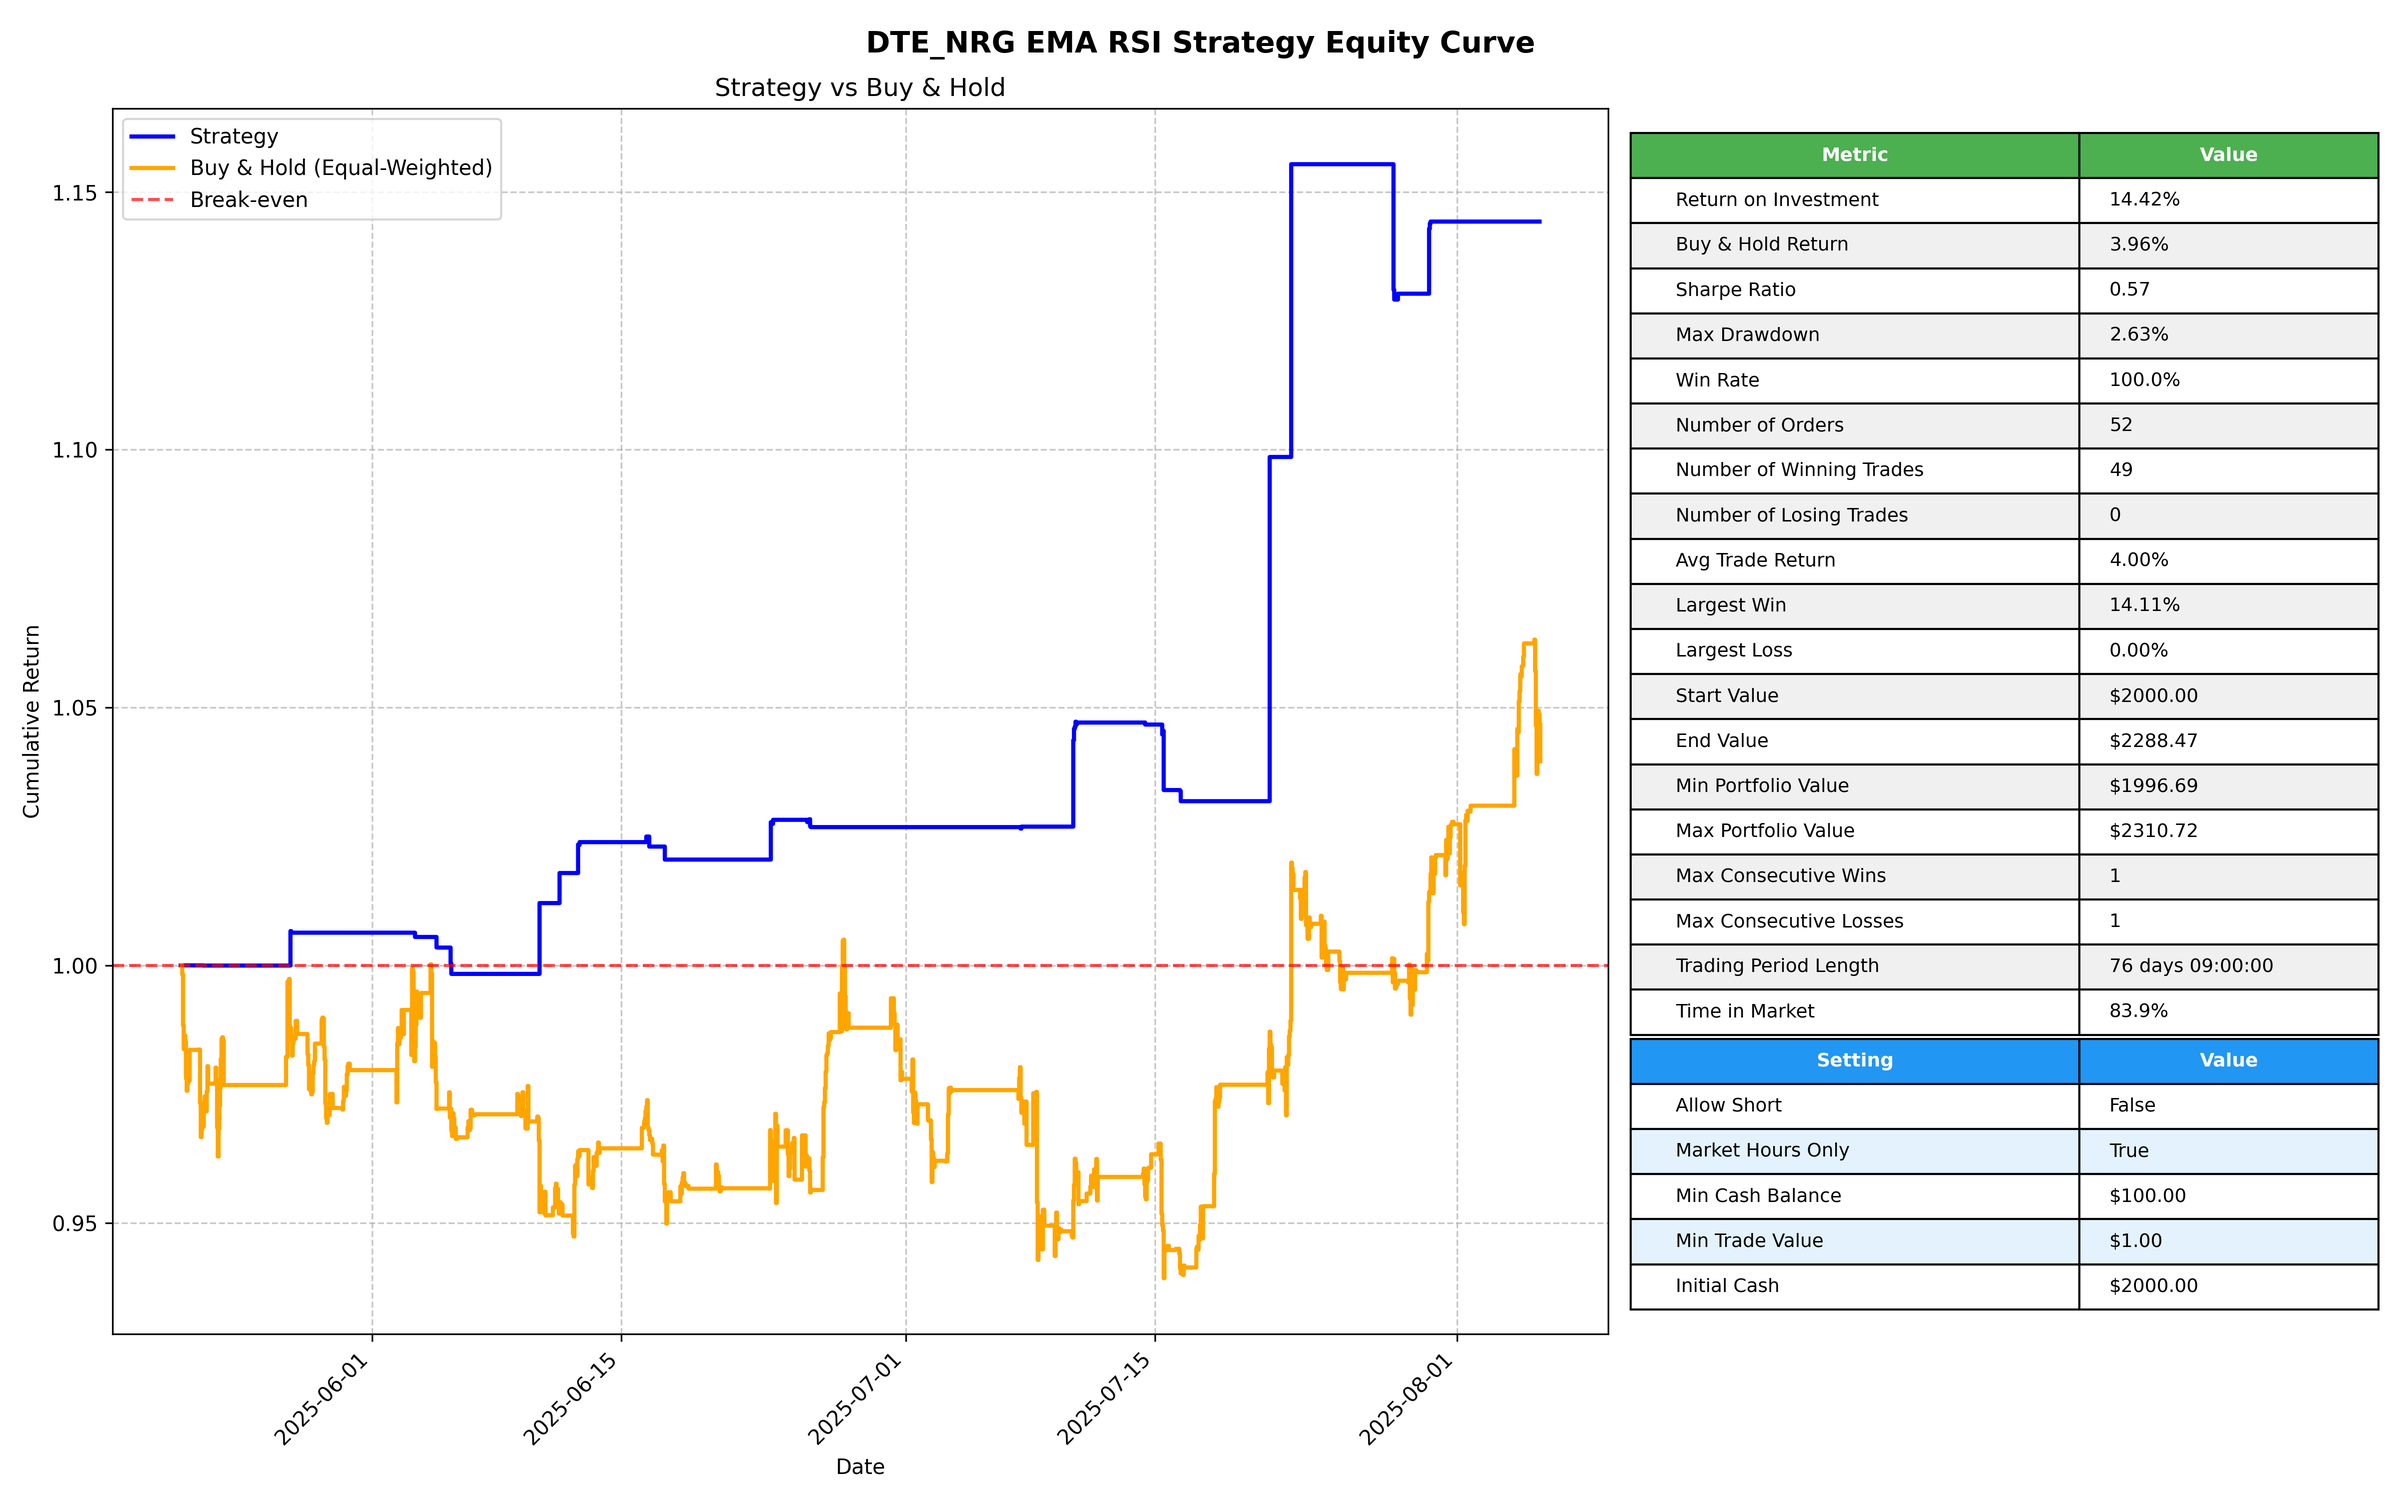
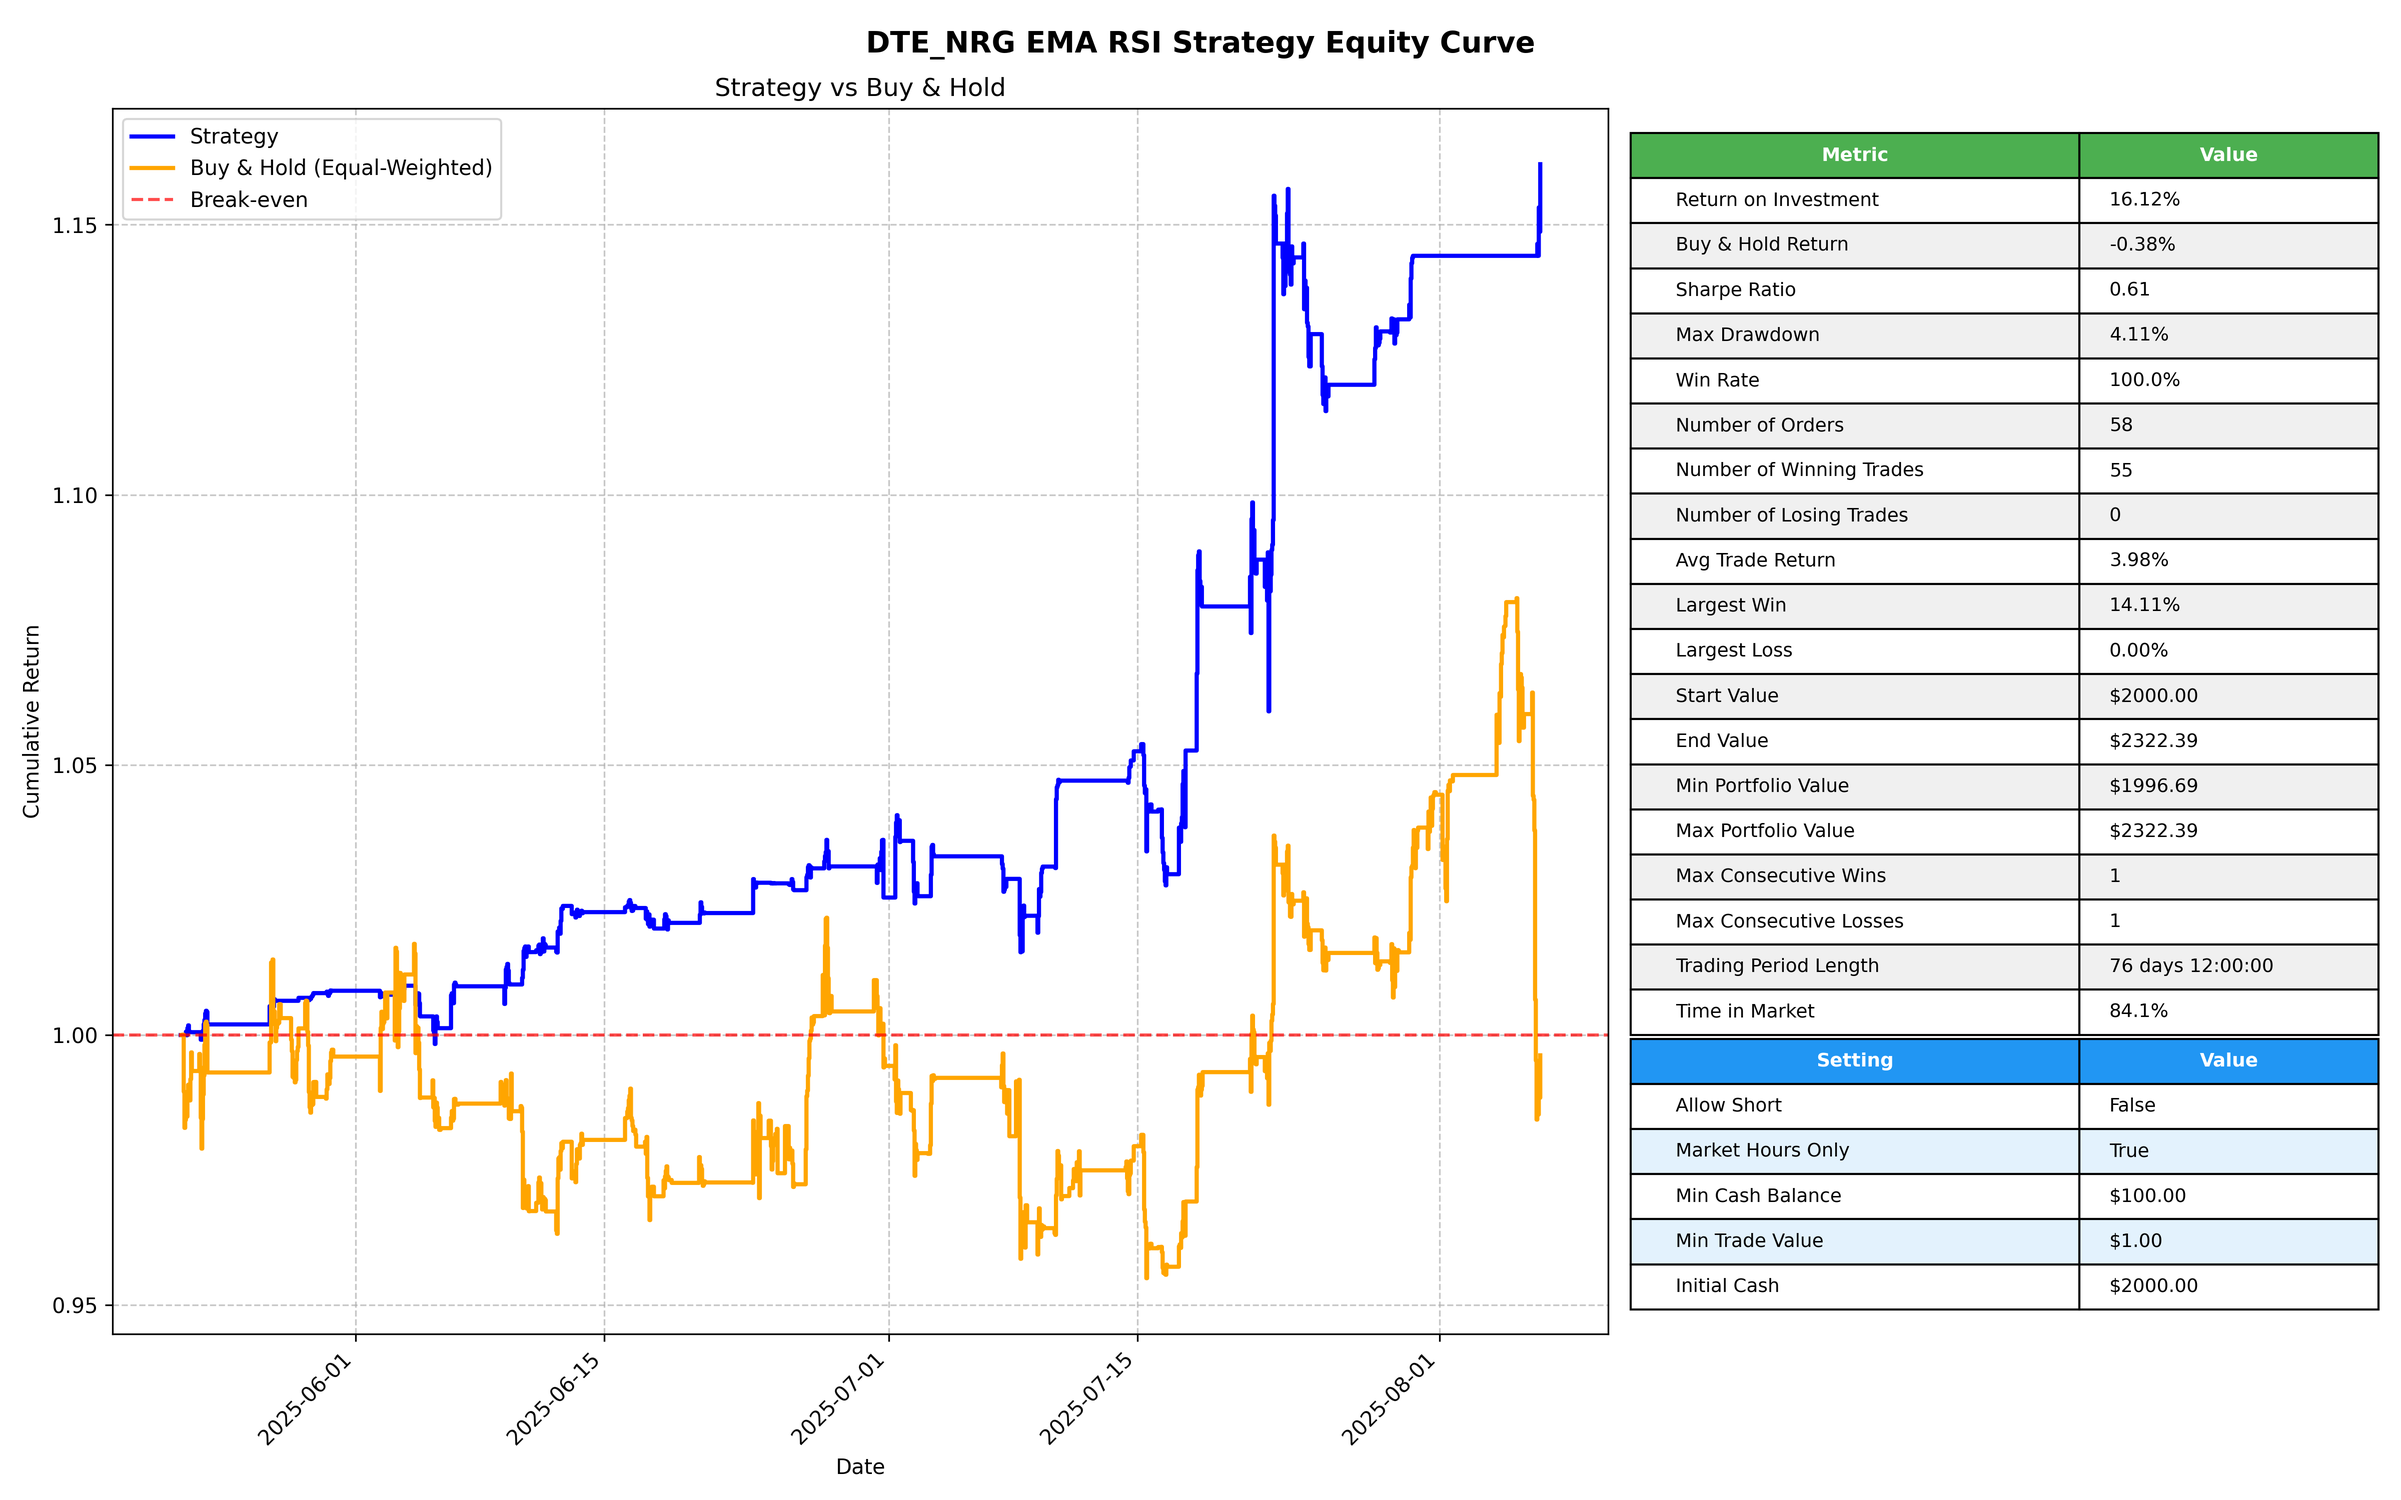
add some state manipulation for positions

diff --git a/src/bacta/backtester.py b/src/bacta/backtester.py
@@ -385,9 +385,13 @@ class EventBacktester(ABC):
 
         # iterate through the index of the bars
         with logging_redirect_tqdm(loggers=[get_logger()]):
-            for index in tqdm(timestamps[start_loc:], desc="Backtesting", leave=False, dynamic_ncols=True, total=len(timestamps[start_loc:]), position=0, disable=disable_tqdm):
-                # perform update step
+            for i, index in tqdm(enumerate(timestamps[start_loc:]), desc="Backtesting", leave=False, dynamic_ncols=True, total=len(timestamps[start_loc:]), position=0, disable=disable_tqdm):
+                # update portfolio value with current open prices
                 current_bar = full_bars.xs(index, level=1)
+                current_open_prices = current_bar.loc[:, "open"]
+                self._update_portfolio_value(current_open_prices, index)
+
+                # perform update step
                 self.update_step(full_bars, index)
                 if close_positions and (self.market_hours_only and index == last_market_bar) or (not self.market_hours_only and index == timestamps[-2]):
                     logger.info(f"Closing positions at {index}...")
@@ -406,6 +410,11 @@ class EventBacktester(ABC):
                 # Update portfolio value with current close prices
                 current_close_prices = current_bar.loc[:, "close"]
                 self._update_portfolio_value(current_close_prices, index)
+
+                # make sure that the state history is the same length as the test bars up to the current index. raise an error if not
+                if len(self.state_history) - 1 != len(test_bars.index.get_level_values(1).unique()[:i+1]):
+                    raise ValueError(
+                        "State history is not the same length as the test bars")
 
         # return the state history
         return self.get_state_history()
@@ -863,11 +872,32 @@ class EventBacktester(ABC):
 
     # getters
 
-    def get_state(self) -> pd.Series:
+    def get_state(self, symbol: str = None, index: pd.Timestamp = None) -> pd.Series:
         """
         Get the current state of the checkbook.
         """
-        return self.state_history.iloc[-1]
+        if symbol is None:
+            return self.state_history.iloc[-1]
+        else:
+            if index is None:
+                return self.state_history[symbol].iloc[-1]
+            else:
+                return self.state_history[symbol].loc[index]
+
+    def get_position(self, symbol: str, index: pd.Timestamp = None) -> pd.Series:
+        """Get the current position of the symbol.
+
+        Args:
+            symbol (str): The symbol of the asset.
+            index (pd.Timestamp, optional): The index of the state. Defaults to None.
+
+        Returns:
+            pd.Series: _description_
+        """
+        if index is None:
+            return self.state_history[symbol].iloc[-1]
+        else:
+            return self.state_history[symbol].loc[index]
 
     def get_current_cash(self) -> float:
         """

diff --git a/examples/ema_rsi.py b/examples/ema_rsi.py
@@ -70,9 +70,13 @@ class EmaStrategy(EventBacktester):
         for symbol in self.active_symbols:
             quantity = round(300 / close_prices[symbol], 4)
             if self.rsis[symbol][index] > 75 and self.short_emas[symbol][index] > self.long_emas[symbol][index]:
+                # if self.get_state(symbol, index) > 0:
+                #    quantity = self.get_position(symbol, index)
                 orders.append(Order(symbol, Position.SHORT,
                               close_prices[symbol], quantity))
             elif self.rsis[symbol][index] < 25 and self.short_emas[symbol][index] < self.long_emas[symbol][index]:
+                # if self.get_state(symbol, index) < 0:
+                #    quantity = self.get_position(symbol, index)
                 orders.append(Order(symbol, Position.LONG,
                               close_prices[symbol], quantity))
 
@@ -86,16 +90,17 @@ if __name__ == "__main__":
     bars = download_crypto_bars(symbols, start_date=datetime(
         2024, 1, 1), end_date=datetime.now() - timedelta(minutes=15), timeframe=TimeFrame.Hour)
     """
-    symbols = ["DTE", "NRG"]
+    symbols = ["DTE", "DUK"]
+
     bars = download_bars(symbols, start_date=datetime(
-        2023, 7, 1), end_date=datetime.now() - timedelta(minutes=15), timeframe=TimeFrame.Hour)
+        2024, 1, 1), end_date=datetime(2025, 7, 31), timeframe=TimeFrame.Hour)
     # split the bars into train and test
     train_bars, test_bars = split_multi_index_bars_train_test(
-        bars, split_ratio=0.9)
+        bars, split_ratio=0.8)
 
     # create the backtester
     backtester = EmaStrategy(
-        symbols, cash=2000, allow_short=False, min_cash_balance=100, min_trade_value=1, market_hours_only=True, transaction_cost=0.000, transaction_cost_type="percentage")
+        symbols, cash=2000, allow_short=True, min_cash_balance=100, min_trade_value=1, market_hours_only=True, transaction_cost=0.000, transaction_cost_type="percentage")
 
     # preload the train bars
     backtester.load_train_bars(train_bars)
@@ -124,5 +129,5 @@ if __name__ == "__main__":
 
     # monte carlo analysis
     print(dash("monte carlo analysis"))
-    print(backtester.monte_carlo_analysis(
+    print(backtester.monte_carlo_trade_analysis(
         num_simulations=1000))

diff --git a/examples/keltner_channel.py b/examples/keltner_channel.py
@@ -72,7 +72,7 @@ class KeltnerChannelBacktester(EventBacktester):
 
 
 if __name__ == "__main__":
-    symbols = ["DUK", "NRG"]
+    symbols = ["TSLA", "AAPL"]
     utility_symbols = [
         "NEE", "EXC", "D", "PCG", "XEL",
         "ED", "WEC", "DTE", "PPL", "AEE",

diff --git a/README.md b/README.md
@@ -145,6 +145,13 @@ def precompute_step(self, bars: pd.DataFrame):
 - `run_backtest(test_bars, close_positions=True)`: Execute backtest on test data
 - `reset()`: Reset the backtester to its initial state
 
+**Trade History Methods:**
+- `get_state(symbol=None, index=None)`: Get the current state of the backtester. If symbol is None, returns the current state of the backtester. If symbol is provided, returns the state of the symbol at the given index. If index is None, returns the current state of the symbol.
+- `get_position(symbol, index=None)`: Get the current position of the symbol. If index is None, returns the current position of the symbol.
+- `get_current_cash()`: Get the current cash balance.
+- `get_history()`: Get the history of the backtester.
+- `get_state_history()`: Get the state history of the backtester. This is a dataframe with the columns: `cash`, `portfolio_value`, *symbol
+
 **Analysis Methods:**
 - `analyze_performance()`: Calculate performance metrics
 - `get_win_rate(threshold=0.0)`: Calculate win rate and trade analysis
